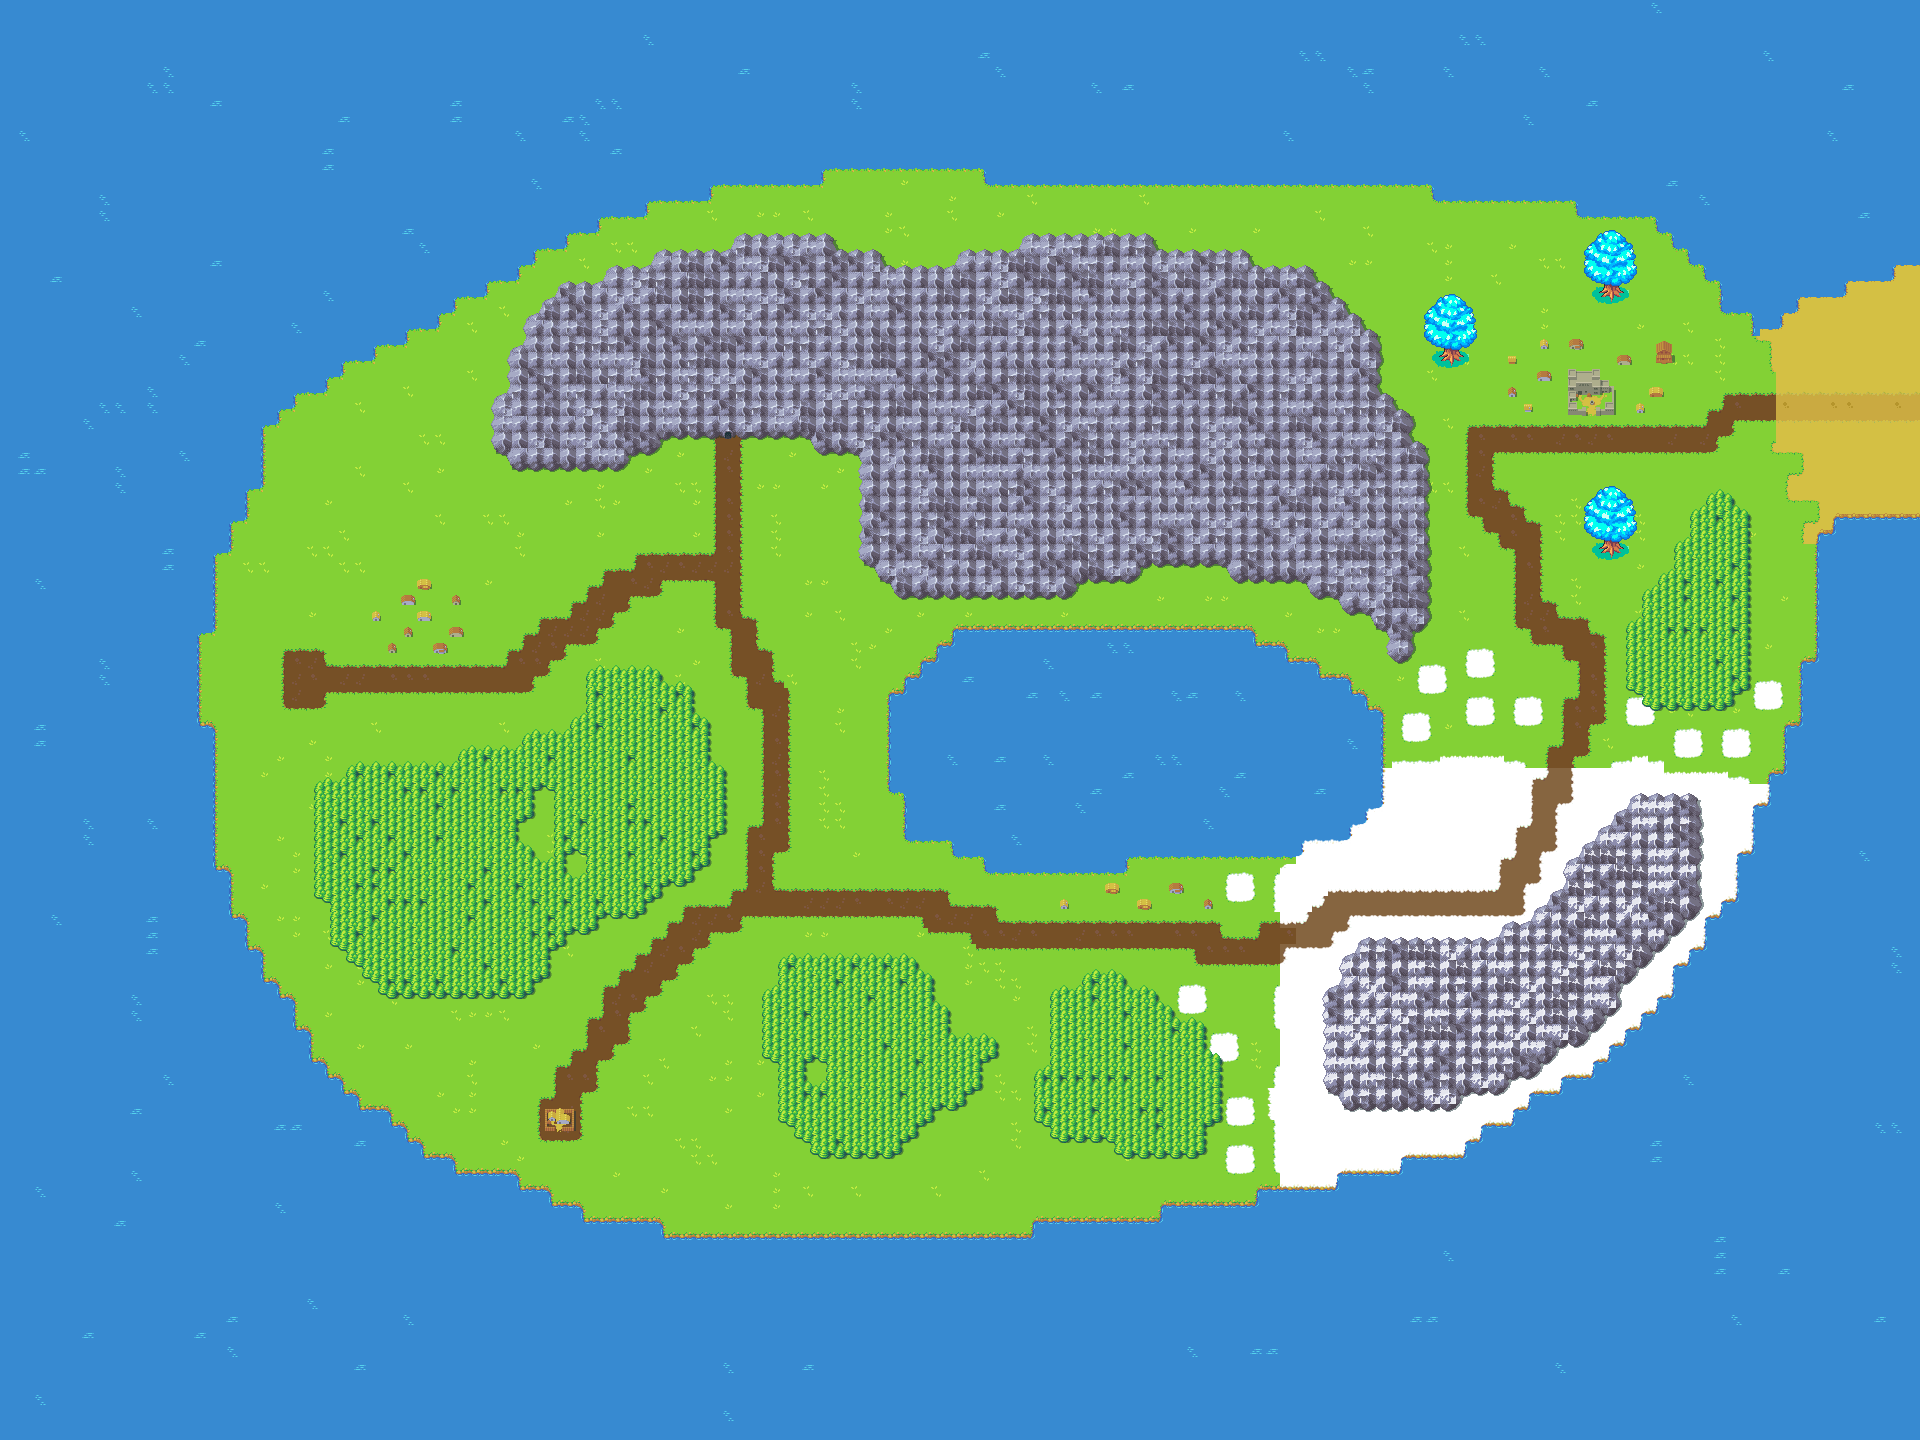
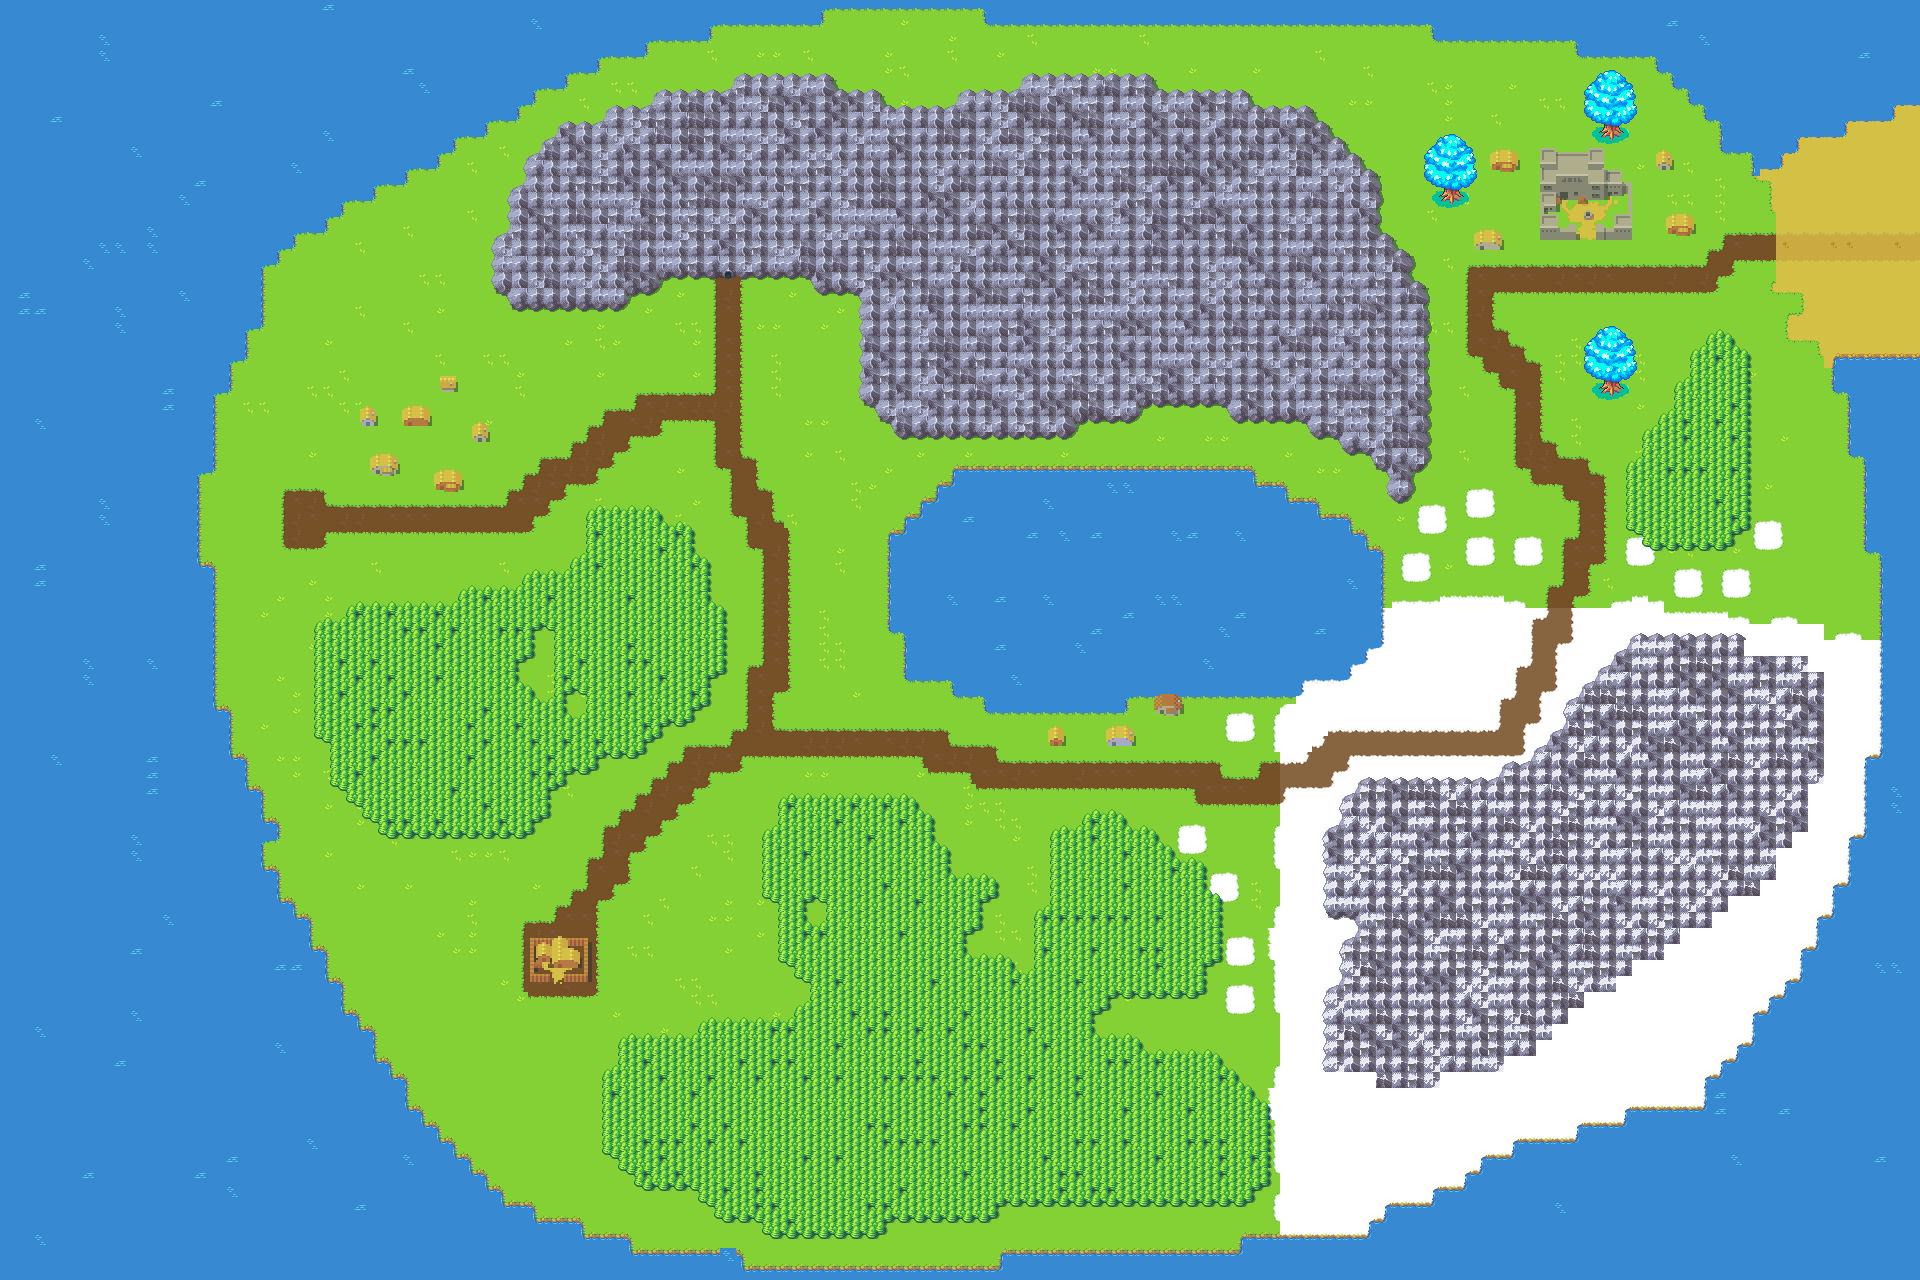
Added bigger map + resized houses

diff --git a/Glitch/Game/Scenes/Overworld/Overworld.cpp b/Glitch/Game/Scenes/Overworld/Overworld.cpp
@@ -30,40 +30,40 @@ void Overworld::loadButtons() {
 	shared_ptr<Button> shop = shared_ptr<Button>(new Button(10, ColoredText("", Color(255, 255, 255)), onShopBtnClick, defaultBtnSprite, this->dispatcher));
 	shop->setWidth(32);
 	shop->setHeight(32);
-	shop->setPositionX(500);
-	shop->setPositionY(860);
+	shop->setPositionX(480);
+	shop->setPositionY(840);
 	shop->registerHoverSprite(hoverBtnSprite);
 
-	shared_ptr<Text> shopText = shared_ptr<Text>(new Text(15, new ColoredText("Shop", Color(0, 0, 0)), 70, 50, 550, 870));
+	shared_ptr<Text> shopText = shared_ptr<Text>(new Text(15, new ColoredText("Shop", Color(0, 0, 0)), 70, 50, 565, 850));
 
 	shared_ptr<Button> shop1 = shared_ptr<Button>(new Button(11, ColoredText("", Color(255, 255, 255)), onShopBtnClick, defaultBtnSprite, this->dispatcher));
 	shop1->setWidth(32);
 	shop1->setHeight(32);
-	shop1->setPositionX(585);
-	shop1->setPositionY(850);
+	shop1->setPositionX(600);
+	shop1->setPositionY(830);
 	shop1->registerHoverSprite(hoverBtnSprite);
 
 	shared_ptr<Button> shop2 = shared_ptr<Button>(new Button(12, ColoredText("", Color(255, 255, 255)), onShopBtnClick, defaultBtnSprite, this->dispatcher));
 	shop2->setWidth(32);
 	shop2->setHeight(32);
 	shop2->setPositionX(535);
-	shop2->setPositionY(890);
+	shop2->setPositionY(870);
 	shop2->registerHoverSprite(hoverBtnSprite);
 
 	shared_ptr<Button> level1Btn = shared_ptr<Button>(new Button(1, ColoredText("", Color(255, 255, 255)), onLevel1BtnClick, defaultBtnSprite, this->dispatcher));
 	level1Btn->setWidth(32);
 	level1Btn->setHeight(32);
 	level1Btn->setPositionX(713);
-	level1Btn->setPositionY(440);
+	level1Btn->setPositionY(355);
 	level1Btn->registerHoverSprite(hoverBtnSprite);
 
-	shared_ptr<Text> level1TextBtn = shared_ptr<Text>(new Text(2, new ColoredText("Level 1, Score: " + to_string(savegame->getCurrentGameData().levelData[0].score), Color(0, 0, 0)), 120, 30, 613, 435 + 20));
+	shared_ptr<Text> level1TextBtn = shared_ptr<Text>(new Text(2, new ColoredText("Level 1, Score: " + to_string(savegame->getCurrentGameData().levelData[0].score), Color(0, 0, 0)), 120, 30, 613, 350 + 20));
 
 	shared_ptr<Button> level2Btn = shared_ptr<Button>(new Button(3, ColoredText("", Color(255, 255, 255)), onLevel2BtnClick, defaultBtnSprite, this->dispatcher));
 	level2Btn->setWidth(32);
 	level2Btn->setHeight(32);
 	level2Btn->setPositionX(743);
-	level2Btn->setPositionY(690);
+	level2Btn->setPositionY(640);
 	level2Btn->registerHoverSprite(hoverBtnSprite);
 
 	string level2Name = "Locked";
@@ -71,7 +71,7 @@ void Overworld::loadButtons() {
 	{
 		level2Name = "Level 2, Score: " + to_string(savegame->getCurrentGameData().levelData[1].score);
 	}
-	shared_ptr<Text> level2TextBtn = shared_ptr<Text>(new Text(4, new ColoredText(level2Name, Color(0, 0, 0)), 120, 30, 648, 685 + 20));
+	shared_ptr<Text> level2TextBtn = shared_ptr<Text>(new Text(4, new ColoredText(level2Name, Color(0, 0, 0)), 120, 30, 648, 640 + 20));
 
 	if (!savegame->getCurrentGameData().levelData[1].completed)
 	{
@@ -87,10 +87,10 @@ void Overworld::loadButtons() {
 	level3Btn->setWidth(32);
 	level3Btn->setHeight(32);
 	level3Btn->setPositionX(1000);
-	level3Btn->setPositionY(720);
+	level3Btn->setPositionY(667);
 	level3Btn->registerHoverSprite(hoverBtnSprite);
 
-	shared_ptr<Text> level3TextBtn = shared_ptr<Text>(new Text(6, new ColoredText(level3Name, Color(0, 0, 0)), 120, 30, 900, 735));
+	shared_ptr<Text> level3TextBtn = shared_ptr<Text>(new Text(6, new ColoredText(level3Name, Color(0, 0, 0)), 120, 30, 900, 667 + 15));
 	if (!savegame->getCurrentGameData().levelData[2].completed)
 	{
 		level3Btn->disable();
@@ -105,10 +105,10 @@ void Overworld::loadButtons() {
 	level4Btn->setWidth(32);
 	level4Btn->setHeight(32);
 	level4Btn->setPositionX(1495);
-	level4Btn->setPositionY(690);
+	level4Btn->setPositionY(638);
 	level4Btn->registerHoverSprite(hoverBtnSprite);
 
-	shared_ptr<Text> level4TextBtn = shared_ptr<Text>(new Text(8, new ColoredText(level4Name, Color(0, 0, 0)), 120, 30, 1315, 650));
+	shared_ptr<Text> level4TextBtn = shared_ptr<Text>(new Text(8, new ColoredText(level4Name, Color(0, 0, 0)), 120, 30, 1315, 638 - 50));
 	if (!savegame->getCurrentGameData().levelData[3].completed)
 	{
 		level4Btn->disable();
@@ -121,11 +121,11 @@ void Overworld::loadButtons() {
 	shared_ptr<Button> chapterOne = shared_ptr<Button>(new Button(55, ColoredText("", Color(0, 0, 0)), onChapterOneClick, bookBtnSprite, this->dispatcher));
 	chapterOne->setWidth(32);
 	chapterOne->setHeight(32);
-	chapterOne->setPositionX(290);
-	chapterOne->setPositionY(525);
+	chapterOne->setPositionX(287);
+	chapterOne->setPositionY(452);
 	chapterOne->registerHoverSprite(bookHoverBtnSprite);
 
-	shared_ptr<Text> chapterOneTxt = shared_ptr<Text>(new Text(56, new ColoredText("Chapter one", Color(0, 0, 0), false), 100, 50, 290 - 35, 535 + 30));
+	shared_ptr<Text> chapterOneTxt = shared_ptr<Text>(new Text(56, new ColoredText("Chapter one", Color(0, 0, 0), false), 100, 50, 287 - 35, 452 + 40));
 
 
 
@@ -133,23 +133,23 @@ void Overworld::loadButtons() {
 	chapterTwo->setWidth(32);
 	chapterTwo->setHeight(32);
 	chapterTwo->setPositionX(1265);
-	chapterTwo->setPositionY(720);
+	chapterTwo->setPositionY(675);
 	chapterTwo->registerHoverSprite(bookHoverBtnSprite);
 	if (!savegame->getCurrentGameData().levelData[3].completed)
 	{
 		chapterTwo->disable();
 	}
 
-	shared_ptr<Text> chapterTwoTxt = shared_ptr<Text>(new Text(77, new ColoredText("Chapter two", Color(0, 0, 0), false), 100, 50, 1270 - 35, 720 + 35));
+	shared_ptr<Text> chapterTwoTxt = shared_ptr<Text>(new Text(77, new ColoredText("Chapter two", Color(0, 0, 0), false), 100, 50, 1270 - 35, 675 + 35));
 
 	shared_ptr<Button> chapterThree = shared_ptr<Button>(new Button(78, ColoredText("", Color(0, 0, 0)), onChapterThreeClick, bookBtnSprite, this->dispatcher));
 	chapterThree->setWidth(32);
 	chapterThree->setHeight(32);
 	chapterThree->setPositionX(1760);
-	chapterThree->setPositionY(320);
+	chapterThree->setPositionY(225);
 	chapterThree->registerHoverSprite(bookHoverBtnSprite);
 
-	shared_ptr<Text> chapterThreeTxt = shared_ptr<Text>(new Text(79, new ColoredText("Chapter three", Color(0, 0, 0), false), 100, 50, 1760 - 35, 320 + 35));
+	shared_ptr<Text> chapterThreeTxt = shared_ptr<Text>(new Text(79, new ColoredText("Chapter three", Color(0, 0, 0), false), 100, 50, 1760 - 35, 225 + 35));
 	if (!savegame->getCurrentGameData().levelData[5].completed)
 	{
 		chapterThree->disable();
@@ -164,9 +164,9 @@ void Overworld::loadButtons() {
 	level5Btn->setWidth(32);
 	level5Btn->setHeight(32);
 	level5Btn->setPositionX(1465);
-	level5Btn->setPositionY(340);
+	level5Btn->setPositionY(250);
 	level5Btn->registerHoverSprite(hoverBtnSprite);
-	shared_ptr<Text> level5TextBtn = shared_ptr<Text>(new Text(24, new ColoredText(level5Name, Color(0, 0, 0)), 120, 30, 1360, 360));
+	shared_ptr<Text> level5TextBtn = shared_ptr<Text>(new Text(24, new ColoredText(level5Name, Color(0, 0, 0)), 120, 30, 1360, 250 + 20));
 	if (!savegame->getCurrentGameData().levelData[4].completed)
 	{
 		level5Btn->disable();
